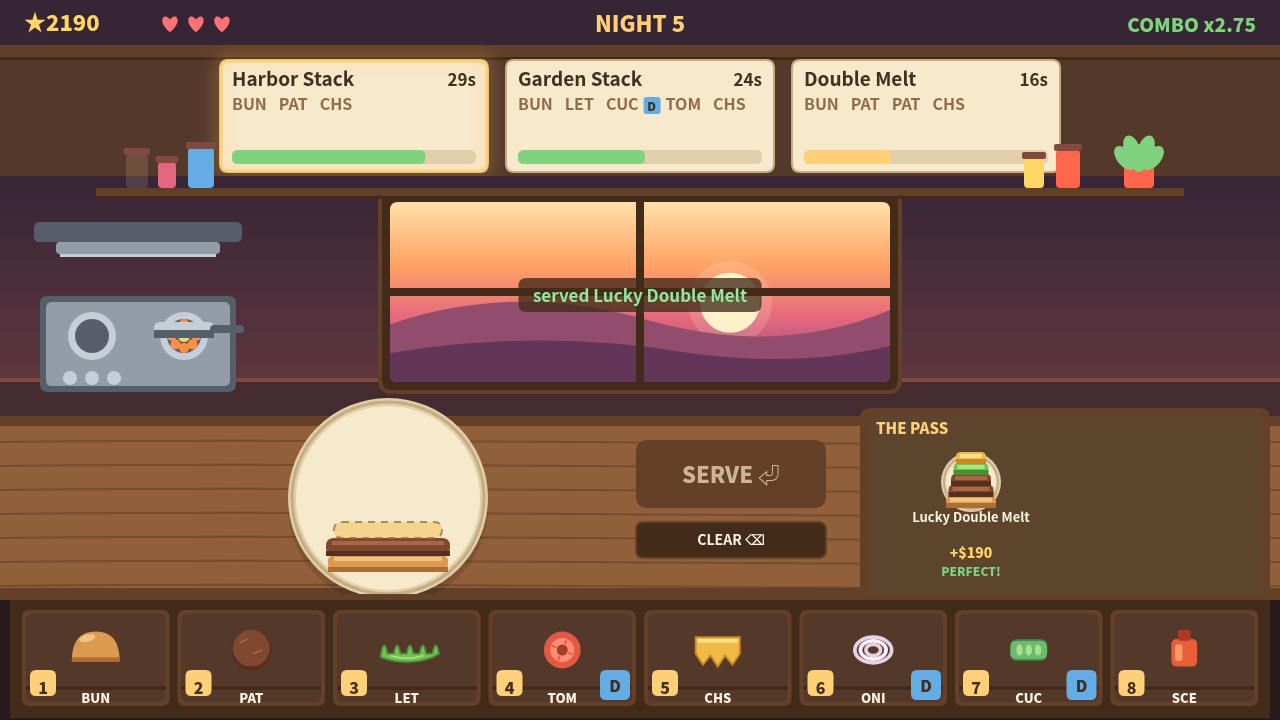
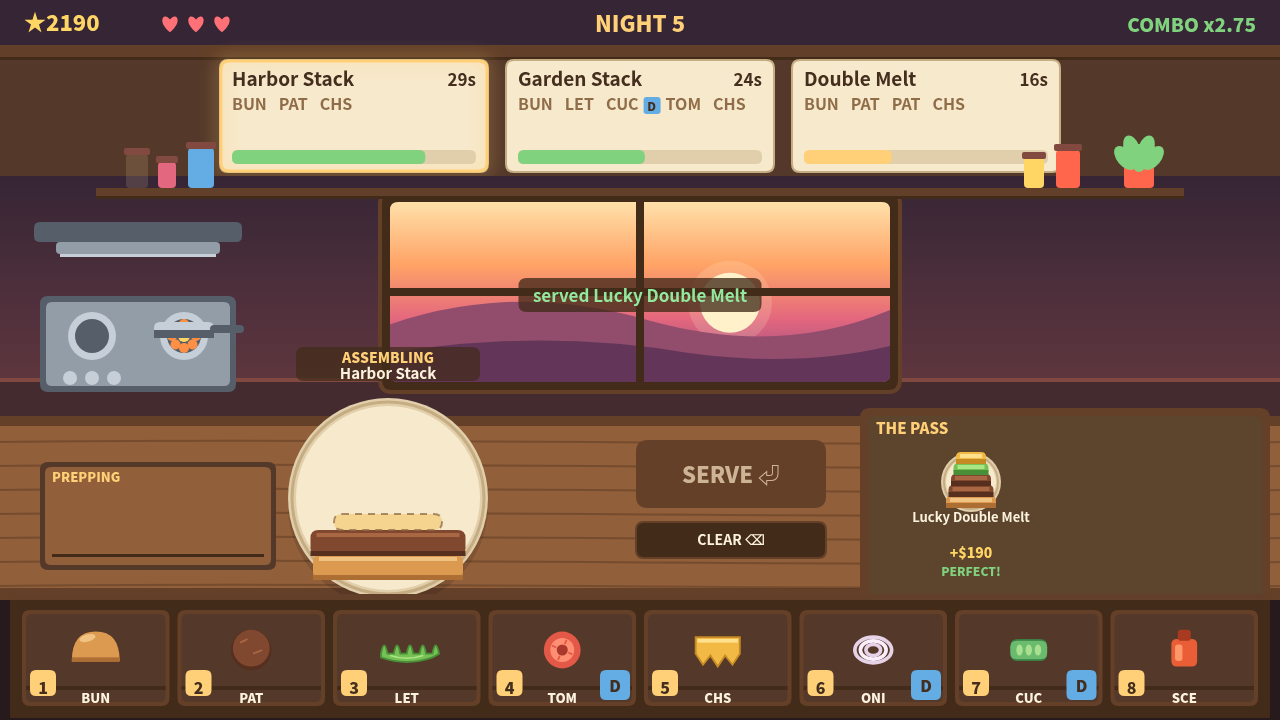
Ember Street Diner: lift the ASSEMBLING label above the plate, enlarge the stack, add a prep board

Changed region(s): [[0.0312, 0.6417, 0.375, 0.825], [0.2188, 0.4583, 0.375, 0.55]]

diff --git a/game/src/render.js b/game/src/render.js
@@ -437,6 +437,52 @@ function drawCounter(ctx) {
   ctx.restore();
 }
 
+// The prep board: the ingredients for the order in progress, laid out loose
+// on the counter next to the plate. Without it the only ingredients on screen
+// are the buttons in the bottom strip, and the scene does not read as a
+// kitchen at work.
+function drawPrepBoard(ctx, game) {
+  const board = LAYOUT.prepBoard;
+  const ticket = focusedTicket(game);
+  if (!ticket) return;
+
+  // a pale cutting board on the counter
+  fillRound(ctx, board.x, board.y, board.w, board.h, 8, PALETTE.boardWood);
+  fillRound(ctx, board.x + 5, board.y + 5, board.w - 10, board.h - 10, 6, PALETTE.woodTop);
+  ctx.fillStyle = PALETTE.woodDark;
+  ctx.fillRect(board.x + 12, board.y + board.h - 16, board.w - 24, 3);
+
+  text(ctx, 'PREPPING', board.x + 12, board.y + 20, {
+    size: 13,
+    weight: 800,
+    color: PALETTE.accent,
+  });
+
+  // The ingredients this ticket still wants, loose on the board. The ones the
+  // plate already carries are drawn dimmer, so the board reads as a plan.
+  const stack = game.plate.map((item) => item.id);
+  const items = ticket.items.slice(0, 6);
+  const cw = (board.w - 24) / Math.max(1, items.length);
+
+  items.forEach((id, i) => {
+    const ing = INGREDIENTS[id];
+    if (!ing) return;
+    const cx = board.x + 12 + cw * (i + 0.5);
+    const cy = board.y + 46;
+    const done = stack.includes(id);
+    ctx.save();
+    ctx.globalAlpha = done ? 0.32 : 1;
+    drawIngredient(ctx, ing, cx, cy, 0.62, 'whole');
+    ctx.restore();
+    text(ctx, ing.short, cx, board.y + board.h - 22, {
+      size: 12,
+      weight: 700,
+      color: done ? PALETTE.inkSoft : PALETTE.ink,
+      align: 'center',
+    });
+  });
+}
+
 function drawBins(ctx, game) {
   const strip = LAYOUT.binStrip;
   ctx.fillStyle = PALETTE.woodDark;
@@ -645,23 +691,25 @@ function drawPlate(ctx, game) {
     return;
   }
 
-  // stack from the bottom of the plate upwards
-  let y = p.y + p.r - 26;
+  // stack from the bottom of the plate upwards. The bands are wide and tall
+  // enough that a half-built dish fills a good part of the plate: a small
+  // stack on a big plate reads as an empty plate, not a dish being made.
+  let y = p.y + p.r - 18;
   game.plate.forEach((item, index) => {
     const ing = INGREDIENTS[item.id];
     if (!ing) return;
-    const bandW = Math.min(p.r * 1.35, 120 + index * 4);
-    const bandH = 18;
+    const bandW = Math.min(p.r * 1.6, 150 + index * 5);
+    const bandH = 26;
 
     if (item.form === 'diced') {
-      for (let c = 0; c < 5; c += 1) {
-        const dx = -bandW / 2 + 12 + c * ((bandW - 24) / 4);
+      for (let c = 0; c < 6; c += 1) {
+        const dx = -bandW / 2 + 14 + c * ((bandW - 28) / 5);
         const dy = (c % 2) * 5;
-        fillRound(ctx, p.x + dx - 11, y - bandH + dy, 22, 16, 4, ing.color);
+        fillRound(ctx, p.x + dx - 12, y - bandH + dy, 24, 20, 4, ing.color);
         ctx.fillStyle = ing.dark;
-        ctx.fillRect(p.x + dx - 11, y - bandH + dy + 12, 22, 4);
+        ctx.fillRect(p.x + dx - 12, y - bandH + dy + 15, 24, 5);
       }
-      y -= 16;
+      y -= bandH - 4;
     } else {
       fillRound(ctx, p.x - bandW / 2, y - bandH, bandW, bandH, 8, ing.color);
       ctx.fillStyle = ing.dark;
@@ -701,17 +749,26 @@ function drawPlate(ctx, game) {
     }
   }
 
-  // A label under the plate, so what is on it reads at a glance.
+  // A label above the plate, so what is on it reads at a glance. It has to
+  // sit above the plate: the counter ends where the ingredient bin strip
+  // starts, and the bin strip is drawn after the plate, so anything under
+  // the plate is painted over.
   const dish = focusedTicket(game);
   if (dish) {
-    text(ctx, 'ASSEMBLING', p.x, p.y + p.r + 26, {
-      size: 15,
+    const labelY = p.y - p.r - 34;
+    // a small plaque behind the words, so they read over the busy wall
+    ctx.save();
+    ctx.globalAlpha = 0.72;
+    fillRound(ctx, p.x - 92, labelY - 17, 184, 34, 8, PALETTE.woodDark);
+    ctx.restore();
+    text(ctx, 'ASSEMBLING', p.x, labelY - 1, {
+      size: 14,
       weight: 800,
       color: PALETTE.accent,
       align: 'center',
     });
-    text(ctx, dish.name, p.x, p.y + p.r + 46, {
-      size: 17,
+    text(ctx, dish.name, p.x, labelY + 15, {
+      size: 15,
       weight: 700,
       color: PALETTE.text,
       align: 'center',
@@ -1066,6 +1123,7 @@ export function render(ctx, game) {
     drawStove(ctx);
     drawShelf(ctx);
     drawCounter(ctx);
+    drawPrepBoard(ctx, game);
     drawPlate(ctx, game);
     drawButtons(ctx, game);
     drawPass(ctx, game);

diff --git a/game/src/config.js b/game/src/config.js
@@ -62,6 +62,7 @@ export const LAYOUT = {
   counter: { y: 416, h: 184 },
   shelf: { y: 600, h: 120 },
   plate: { x: 388, y: 498, r: 100 },
+  prepBoard: { x: 40, y: 462, w: 236, h: 108 },
   serveBtn: { x: 636, y: 440, w: 190, h: 68 },
   clearBtn: { x: 636, y: 522, w: 190, h: 36 },
   pass: { x: 860, y: 408, w: 410, h: 196 },
